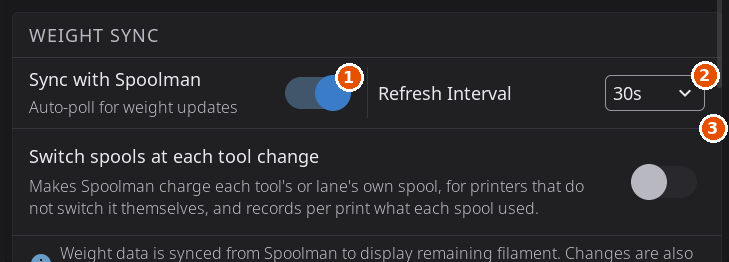
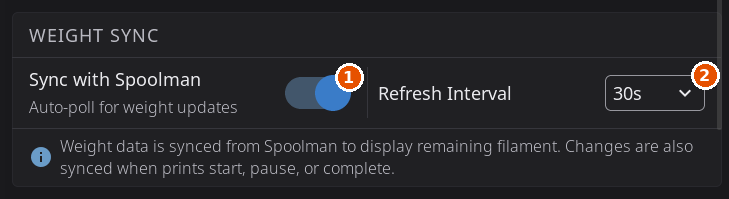
docs: sync the 1.1 docs from v1.1.0

diff --git a/src/content/docs/guide/helixprint-plugin.md b/src/content/docs/guide/helixprint-plugin.md
@@ -66,7 +66,7 @@ K-Touch owners: see also [Install the HelixPrint plugin on your printer](/guide/
 | [Does the file fit this printer?](#does-the-file-fit-this-printer) | **Settings > Safety & Alerts > Hold slicer prints that do not fit** (off) | The screen still checks its own prints; slicer prints are not held |
 | [Start options for prints from other apps](#start-options-for-prints-from-other-apps) | **Settings > Printing > Apply start options to prints from other apps** (off) | Only while HelixScreen is connected |
 | [Faster starts for edited prints](#faster-starts-for-edited-prints) | none | The screen copies the file there and back |
-| [Switch spools at each tool change](#switch-spools-at-each-tool-change) | **Settings > Devices > Spoolman > Switch spools at each tool change** (off) | Only while HelixScreen is connected, fewer printers, no per-print record |
+| [Spool switching at each tool change](#spool-switching-at-each-tool-change) | none (on whenever Spoolman is connected) | Only while HelixScreen is connected, fewer printers, no per-print record |
 | [Printer Events](#printer-events) | none | Each screen keeps its own record |
 | [Print photos](#print-photos) | **Settings > Devices > Print photos** (on) | Only while HelixScreen is connected |
 | [Storage](#storage) | **Settings > System > Storage > Automatic cleanup** (off) | Slower report, only timelapse videos can be cleaned, no automatic cleanup |
@@ -204,16 +204,17 @@ Select the file again and start it. Either way, a copy that would leave the prin
 than 100 MB free is not made, and a message asks you to free some space (see
 [Storage](#storage)).
 
-### Switch spools at each tool change
+### Spool switching at each tool change
 
 Spoolman takes filament off one spool at a time: whichever spool is active. On a printer with
 several tools or lanes, the active spool has to change at every tool change, or one spool is
 charged for filament that came from another. Some printers already do this (AFC, Happy Hare
 with its Spoolman support on, a Snapmaker U1 running the extended firmware's SpoolLink, and
-printers whose tool-change macros set the spool); there this setting changes nothing.
+printers whose tool-change macros set the spool); HelixScreen leaves those alone.
 
-**Setting:** **Settings > Devices > Spoolman**, in the Weight Sync group: **Switch spools at
-each tool change**. It is off by default and only shows when Spoolman is connected.
+**Setting:** none. Spool switching is automatic on every printer whose Moonraker has Spoolman
+set up. It never takes filament off a spool itself (Moonraker's Spoolman support does that), so
+nothing is counted twice.
 
 - **With the plugin**, the printer follows the tool or lane that is printing and makes its
   linked spool the active one, for every print, whichever app started it, even when no screen
@@ -227,11 +228,21 @@ each tool change**. It is off by default and only shows when Spoolman is connect
   extruder keep working as before: the active spool follows the lane that is loaded while
   HelixScreen is connected. No per-print spool record is kept.
 
-**Attached or remote:** on the screen attached to the printer, the switch works as described.
-On a remote screen (a tablet or the K-Touch) without the plugin, the row says **Only while this
-app is connected. Install the HelixPrint plugin to cover every print.** When a screen is
-attached to the printer, it is the one that switches spools, and a remote screen stands by, so
-the two never fight.
+**Attached or remote:** when a screen is attached to the printer, it is the one that switches
+spools, and a remote screen stands by, so the two never fight.
+
+**Turning it off.** If your printer switches spools in a way HelixScreen does not recognize,
+and the wrong spool becomes active at a tool change, turn spool switching off by writing
+`false` to Moonraker's database. From any computer on your network:
+
+```bash
+curl -X POST http://<printer-ip>:7125/server/database/item \
+  -H "Content-Type: application/json" \
+  -d '{"namespace": "helix-screen", "key": "plugin_features.filament_accounting", "value": false}'
+```
+
+Write `true` the same way to turn it back on. With the plugin, the change applies from the
+next print. Without it, restart HelixScreen so the screen picks it up.
 
 **Linking a spool by hand**, with or without the plugin: linking a spool to the lane that is
 loaded right now makes it the active spool, unless the printer does that itself (AFC, or a U1
@@ -242,7 +253,7 @@ loaded. Unlinking a spool takes it back off as the active spool, if it still is.
 Not yet supported: Creality CFS and Anycubic ACE lane changes. The plugin does not yet know
 which lane is feeding on those.
 
-See also [Settings > Devices > Spoolman](/guide/settings/devices/#switch-spools-at-each-tool-change).
+See also [Settings > Devices > Spoolman](/guide/settings/devices/#spool-switching-at-each-tool-change).
 
 ### Printer Events
 
@@ -440,7 +451,7 @@ A setting that depends on the plugin can show one of these under its switch:
 |------|---------------|
 | **Requires the HelixPrint plugin** | The feature only works with the plugin, and your printer does not have it. The switch is greyed out; tap **Install** to add the plugin. Shown for power-loss recovery, holding slicer prints that do not fit, and automatic storage cleanup |
 | **Requires a newer HelixPrint plugin** | The plugin is installed but too old for this feature. Update the plugin: on an attached screen HelixScreen keeps it matched to the app; on a remote screen, run the install command again |
-| **Only while this app is connected. Install the HelixPrint plugin to cover every print.** | On a remote screen without the plugin. The switch works, but HelixScreen can only act on prints while this app is running and connected. Tap **Install** to cover every print. Shown for start options for prints from other apps, spool switching and print photos |
+| **Only while this app is connected. Install the HelixPrint plugin to cover every print.** | On a remote screen without the plugin. The switch works, but HelixScreen can only act on prints while this app is running and connected. Tap **Install** to cover every print. Shown for start options for prints from other apps and print photos |
 | **Only while this app is connected. Update the HelixPrint plugin to cover every print.** | On a remote screen whose plugin is too old for this feature, or cannot run it on your printer. The switch works the same way; run the install command again to update the plugin |
 
 A screen attached to the printer shows none of the last two notes: it does those jobs itself,

diff --git a/src/content/docs/guide/settings/devices.md b/src/content/docs/guide/settings/devices.md
@@ -134,13 +134,13 @@ Turn this on to keep spool weights up to date ("Auto-poll for weight updates"). 
 
 How often HelixScreen asks Spoolman for new weights: **30s**, **1 min**, **2 min** or **5 min**. Shorter is more up to date but uses more network traffic.
 
-### Switch spools at each tool change
+### Spool switching at each tool change
 
-> Only shown once Spoolman is connected.
+There is no setting for this: it is automatic once Spoolman is connected.
 
-Spoolman takes filament off one spool at a time: whichever spool is active. On a printer with several tools or lanes, every tool change has to switch the active spool, or one spool gets charged for filament that came from another. Some printers do this themselves (AFC, Happy Hare with its Spoolman support on, a Snapmaker U1 running the extended firmware's SpoolLink, and printers whose tool-change macros set the spool); for those this row does nothing.
+Spoolman takes filament off one spool at a time: whichever spool is active. On a printer with several tools or lanes, every tool change has to switch the active spool, or one spool gets charged for filament that came from another. Some printers do this themselves (AFC, Happy Hare with its Spoolman support on, a Snapmaker U1 running the extended firmware's SpoolLink, and printers whose tool-change macros set the spool), and HelixScreen leaves those alone.
 
-Turn it on to have the active spool follow the tool or lane that is printing, using the spools you linked to each tool or lane. With the [HelixPrint plugin](/guide/helixprint-plugin/#switch-spools-at-each-tool-change) installed, the plugin does it for every print, whichever app started it, and records which spools each print used; the print's details in [Print History](/guide/print-history/#print-details--reprinting) list them. Without the plugin, HelixScreen switches the spool itself, but only while it is connected and only for tools that print from their own extruder; on a remote screen, the row says so. Off by default. Not yet supported for Creality CFS and Anycubic ACE lane changes: there the active spool follows the loaded lane only while HelixScreen is connected, as before.
+Everywhere else, the active spool follows the tool or lane that is printing, using the spools you linked to each tool or lane. With the [HelixPrint plugin](/guide/helixprint-plugin/#spool-switching-at-each-tool-change) installed, the plugin does it for every print, whichever app started it, and records which spools each print used; the print's details in [Print History](/guide/print-history/#print-details--reprinting) list them. Without the plugin, HelixScreen switches the spool itself, but only while it is connected and only for tools that print from their own extruder. Not yet supported for Creality CFS and Anycubic ACE lane changes: there the active spool follows the loaded lane only while HelixScreen is connected. If your printer switches spools in a way HelixScreen does not recognize, you can [turn it off](/guide/helixprint-plugin/#spool-switching-at-each-tool-change).
 
 ### Label Printer
 

diff --git a/src/content/docs/guide/filament-tracking.md b/src/content/docs/guide/filament-tracking.md
@@ -94,7 +94,7 @@ With Spoolman connected, HelixScreen does not subtract weight itself for linked 
 - **Sync with Spoolman**, under **Settings > Devices > Spoolman > Weight Sync**, is on by default. In 1.1 the switch is saved but does not stop the reading: the Home, Filament and Spoolman screens still read weights while they are open, and the switch only affects the reading while the Spoolman settings page itself is open.
 - Weights are also read again whenever a print starts, pauses or completes.
 - **Refresh Interval** offers 30 s, 1 min, 2 min and 5 min. In 1.1 the choice is saved but the screen still checks every 30 seconds whichever you pick.
-- On a printer with several tools or lanes, turn on **Switch spools at each tool change** (same page) so each tool's filament is charged to that tool's spool. See [Switch spools at each tool change](/guide/settings/devices/#switch-spools-at-each-tool-change).
+- On a printer with several tools or lanes, HelixScreen switches the active spool at each tool change, so each tool's filament is charged to that tool's spool. Nothing to turn on; see [Spool switching at each tool change](/guide/settings/devices/#spool-switching-at-each-tool-change).
 
 HelixScreen writes to Spoolman only when you make a change (linking a spool, editing a spool, creating one, saving a pressure advance value), and when it switches the active spool as described below.
 
@@ -104,7 +104,6 @@ HelixScreen writes to Spoolman only when you make a change (linking a spool, edi
 
 1. Sync with Spoolman.
 2. Refresh Interval.
-3. Switch spools at each tool change.
 
 ### Browsing and linking spools
 

diff --git a/src/content/docs/guide/print-history.md b/src/content/docs/guide/print-history.md
@@ -76,7 +76,7 @@ Tap a job to open its details:
 - **Started** and **Ended** (date and time, or a dash when the printer did not record one) and **Duration**
 - **Layers**, **Nozzle** and **Bed** temperatures
 - **Filament** used, its **Type** and the **Layer Height**
-- **Spools:** which spool each tool or slot used and how much. This needs the [HelixPrint plugin](/guide/helixprint-plugin/#switch-spools-at-each-tool-change)'s spool switching, and only prints it counted show it (see [Settings > Devices > Spoolman](/guide/settings/devices/#switch-spools-at-each-tool-change))
+- **Spools:** which spool each tool or slot used and how much. This needs the [HelixPrint plugin](/guide/helixprint-plugin/#spool-switching-at-each-tool-change)'s spool switching, and only prints it counted show it (see [Settings > Devices > Spoolman](/guide/settings/devices/#spool-switching-at-each-tool-change))
 - a picture of the print, with camera photos when the print has them: one taken after layer 2 and one when it ended. The picture opens on the end photo, and the **Preview**, **Layer 2** and **End** buttons switch between the slicer thumbnail and the photos. See [Print photos](/guide/settings/devices/#print-photos) for how they are taken. Screens built without the [camera view](/guide/camera/) do not show the photos.
 
 Three buttons act on the job:

diff --git a/src/content/docs/guide/release-notes-1-1.md b/src/content/docs/guide/release-notes-1-1.md
@@ -1329,10 +1329,11 @@ attached and remote screens.
   what happened to the printer: shutdowns and their reasons, lost MCUs, firmware restarts,
   pauses, runouts, errors and how each print ended. With the plugin it includes what
   happened while no screen was connected. Debug bundles include it.
-- **Switch spools at each tool change** - in **Settings > Devices > Spoolman**, the active
-  Spoolman spool follows the tool or lane that is printing, so each spool is charged for its
-  own filament. With the plugin it covers every print and the print's history lists the
-  spools it used; without it, the screen does it while connected.
+- **Spool switching at each tool change** - with Spoolman connected, the active Spoolman
+  spool follows the tool or lane that is printing, so each spool is charged for its own
+  filament. It is automatic, and printers that already switch spools themselves are left
+  alone. With the plugin it covers every print and the print's history lists the spools it
+  used; without it, the screen does it while connected.
 - **Start options for prints from other apps** - **Settings > Printing > Apply start options
   to prints from other apps** sends your standing print options, such as which U1 toolheads
   unload at the end, to prints started from Mainsail, Fluidd, a slicer or the job queue.
